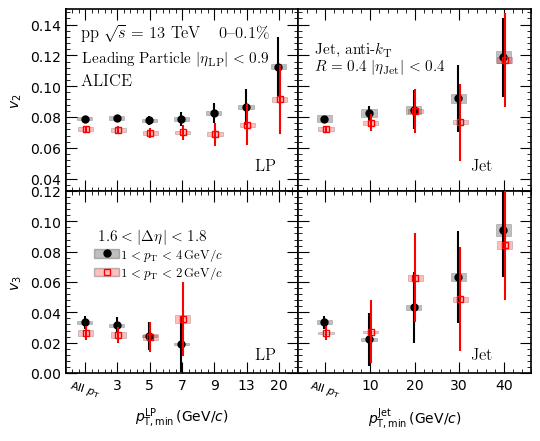
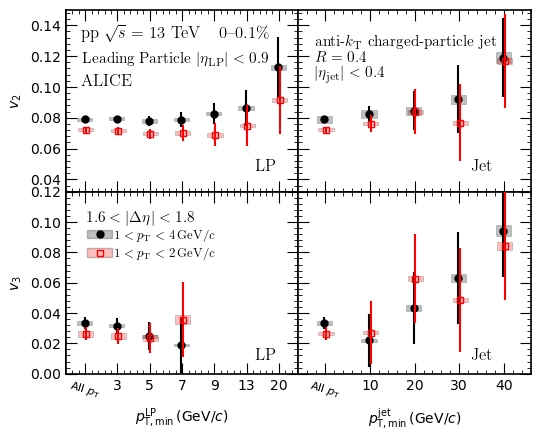
EB comments 4.

diff --git a/FIG6_vn_ess.py b/FIG6_vn_ess.py
@@ -51,11 +51,11 @@ histnamesModels = [
 	["v3_0_EPOS",  "v3_1_EPOS"], ];
 
 # add labels for each pad
-plables = [ "Leading Particle $|\\eta_{\\mathrm{LP}}|<0.9$","Jet, anti-$k_\\mathrm{T}$ \n $R=0.4$ $|\\eta_{\\mathrm{Jet}}|<0.4$" ,"",""];
+plables = [ "Leading Particle $|\\eta_{\\mathrm{LP}}|<0.9$","anti-$k_\\mathrm{T}$ charged-particle jet\n$R=0.4$\n$|\\eta_{\\mathrm{jet}}|<0.4$" ,"",""];
 # model names : for histonames in ROOT file
 modelStr = ["EPOS LHC"]; # "PYTHIA8 Monash2013"];#for legend
 #modelStr = ["PYTHIA8 String Shoving $g$ = 3","EPOS LHC"];
-xtitle = ["$p^{\\mathrm{LP}}_\\mathrm{T,min}\\,(\\mathrm{GeV}/c)$","$p^{\\mathrm{Jet}}_\\mathrm{T,min}\\,(\\mathrm{GeV}/c)$"];
+xtitle = ["$p^{\\mathrm{LP}}_\\mathrm{T,min}\\,(\\mathrm{GeV}/c)$","$p^{\\mathrm{jet}}_\\mathrm{T,min}\\,(\\mathrm{GeV}/c)$"];
 ytitle = ["$v_{2}$", "$v_{3}$"];
 
 # Following two must be added
@@ -74,7 +74,7 @@ plot = JPyPlotRatio.JPyPlotRatio(panels=(nrow,ncol),
 	tickLabelSize=10,
 	axisLabelSize=10,
 	legendPanel=2,
-	legendLoc=(0.40,0.6),legendSize=9,xlabel={0:xtitle[0],1:xtitle[1]},
+	legendLoc=(0.37,0.71),legendSize=9,xlabel={0:xtitle[0],1:xtitle[1]},
 	ylabel={0:ytitle[0],1:ytitle[1]});
 plot.EnableLatex(True); # for publication need fonts via texlive
 
@@ -127,7 +127,7 @@ for iobs in range(0,2):
 plot.GetPlot().text(0.15,0.82,toptitle[0],fontsize=12);
 plot.GetPlot().text(0.38,0.82,toptitle[1],fontsize=12);
 #plot.GetPlot().text(0.16,0.78,dataDetail[0],fontsize=11);
-plot.GetPlot().text(0.18,0.39,dataDetail[1],fontsize=11);
+plot.GetPlot().text(0.16,0.43,dataDetail[1],fontsize=11);
 plot.GetPlot().text(0.44,0.54,PanelName[0],fontsize=12);
 plot.GetPlot().text(0.80,0.54,PanelName[1],fontsize=12);
 plot.GetPlot().text(0.44,0.14,PanelName[0],fontsize=12);
